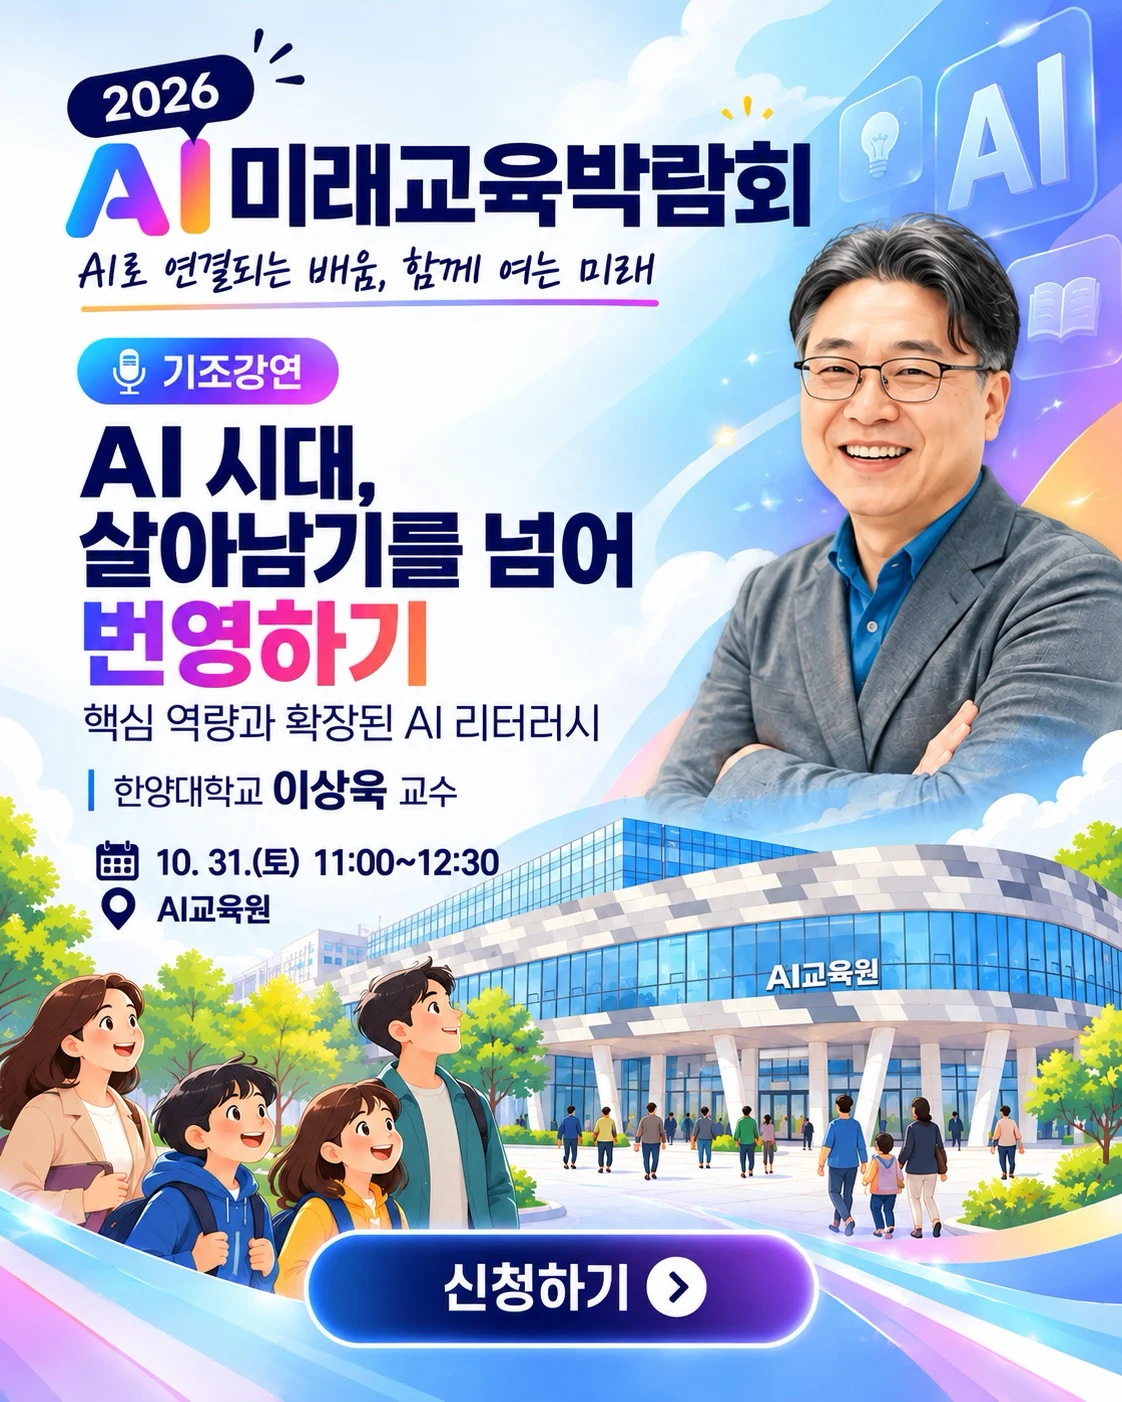
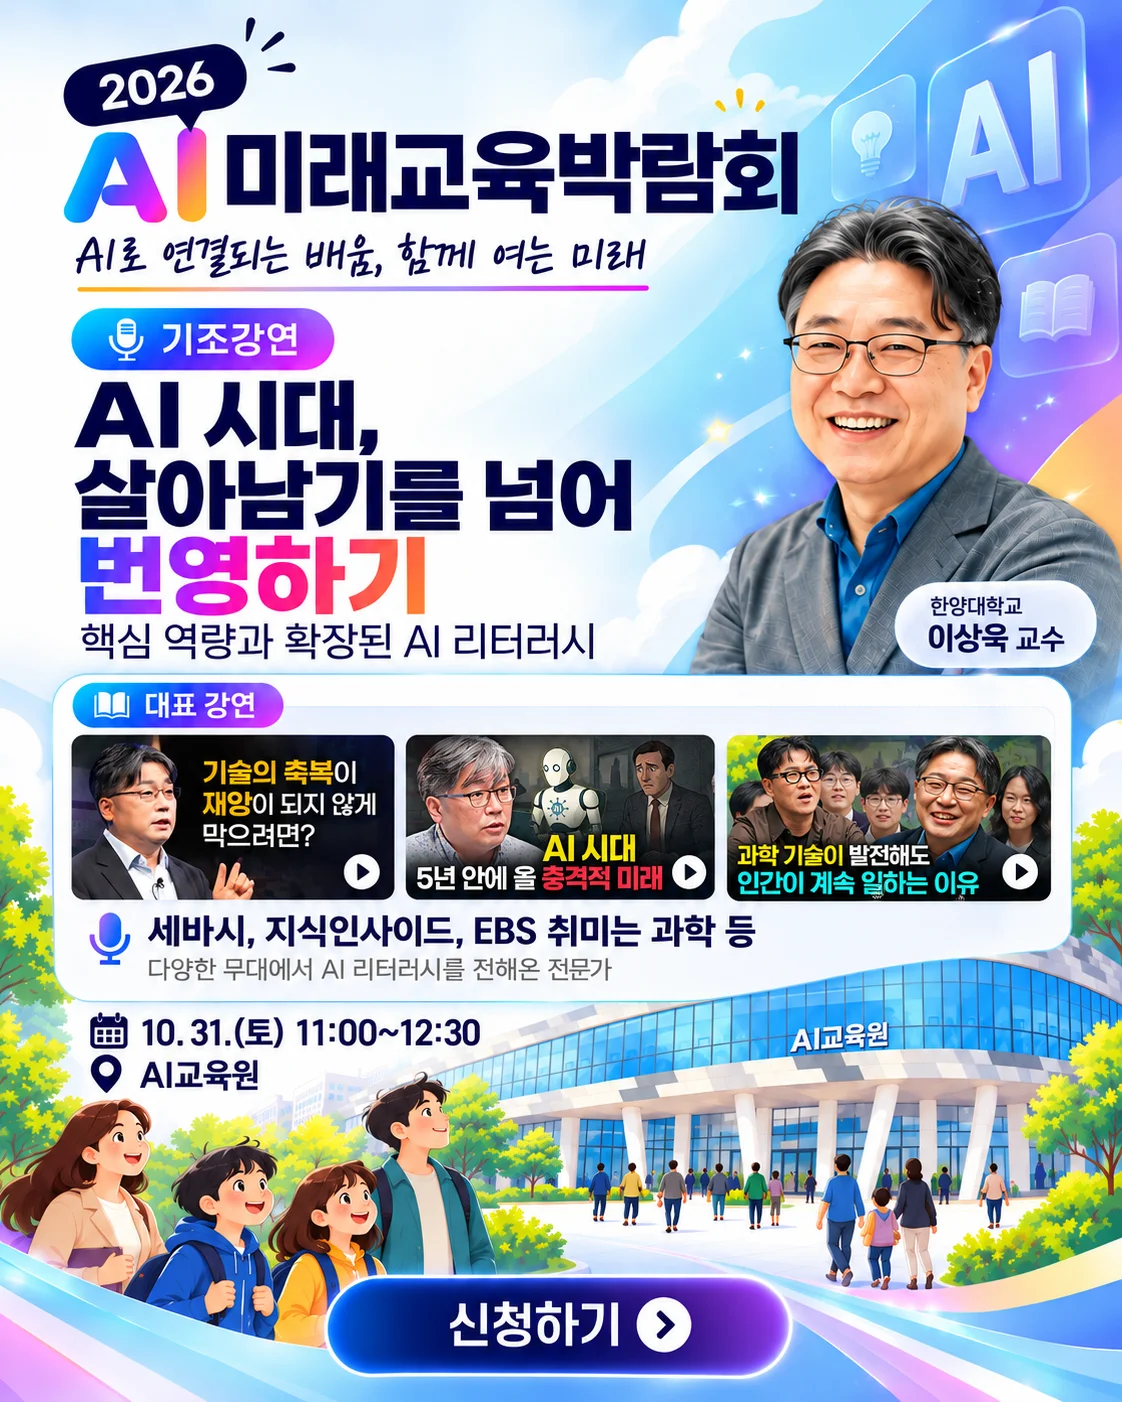
feat(home): 기조강연 팝업 이미지 교체

diff --git a/src/widgets/promo-popup/ui/PromoPopup.tsx b/src/widgets/promo-popup/ui/PromoPopup.tsx
@@ -59,7 +59,7 @@ export default function PromoPopup() {
           priority
           className="h-auto max-h-[calc(100dvh-6rem)] w-full object-contain"
         />
-        {/* 이미지 속 "신청하기" 버튼 위치(가로 27~73%, 세로 88~96%)에 맞춘 클릭 영역. */}
+        {/* 이미지 속 "신청하기" 버튼 위치(가로 29~71%, 세로 91~98%)에 맞춘 클릭 영역. */}
         {REGISTER_URL ? (
           <a
             href={REGISTER_URL}
@@ -67,14 +67,14 @@ export default function PromoPopup() {
             rel="noopener noreferrer"
             onClick={close}
             aria-label="사전등록 신청하기"
-            className="absolute left-[27%] top-[88%] h-[8%] w-[46%]"
+            className="absolute left-[29%] top-[91%] h-[7%] w-[42%]"
           />
         ) : (
           <Link
             href="/apply/register"
             onClick={close}
             aria-label="사전등록 신청하기"
-            className="absolute left-[27%] top-[88%] h-[8%] w-[46%]"
+            className="absolute left-[29%] top-[91%] h-[7%] w-[42%]"
           />
         )}
       </div>
